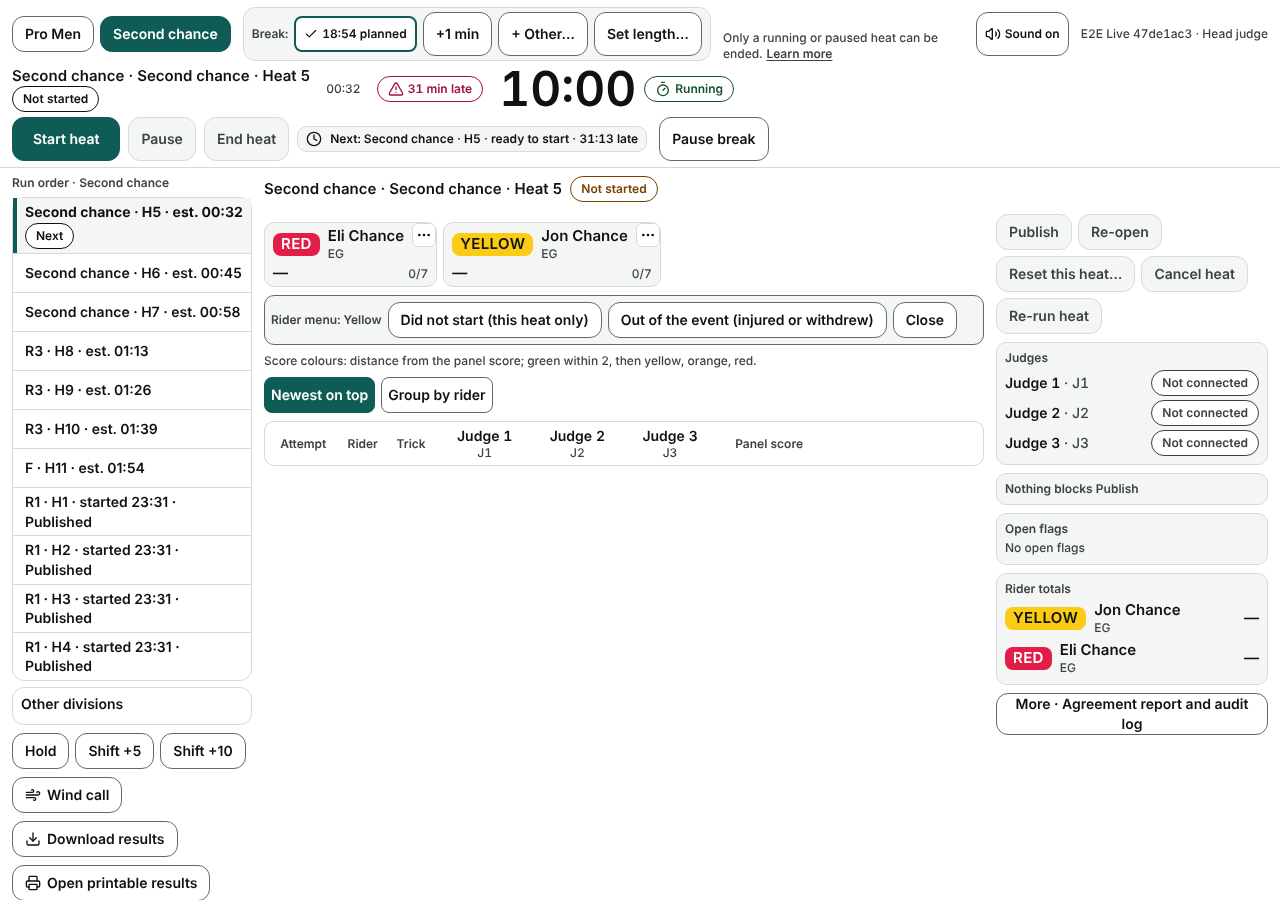
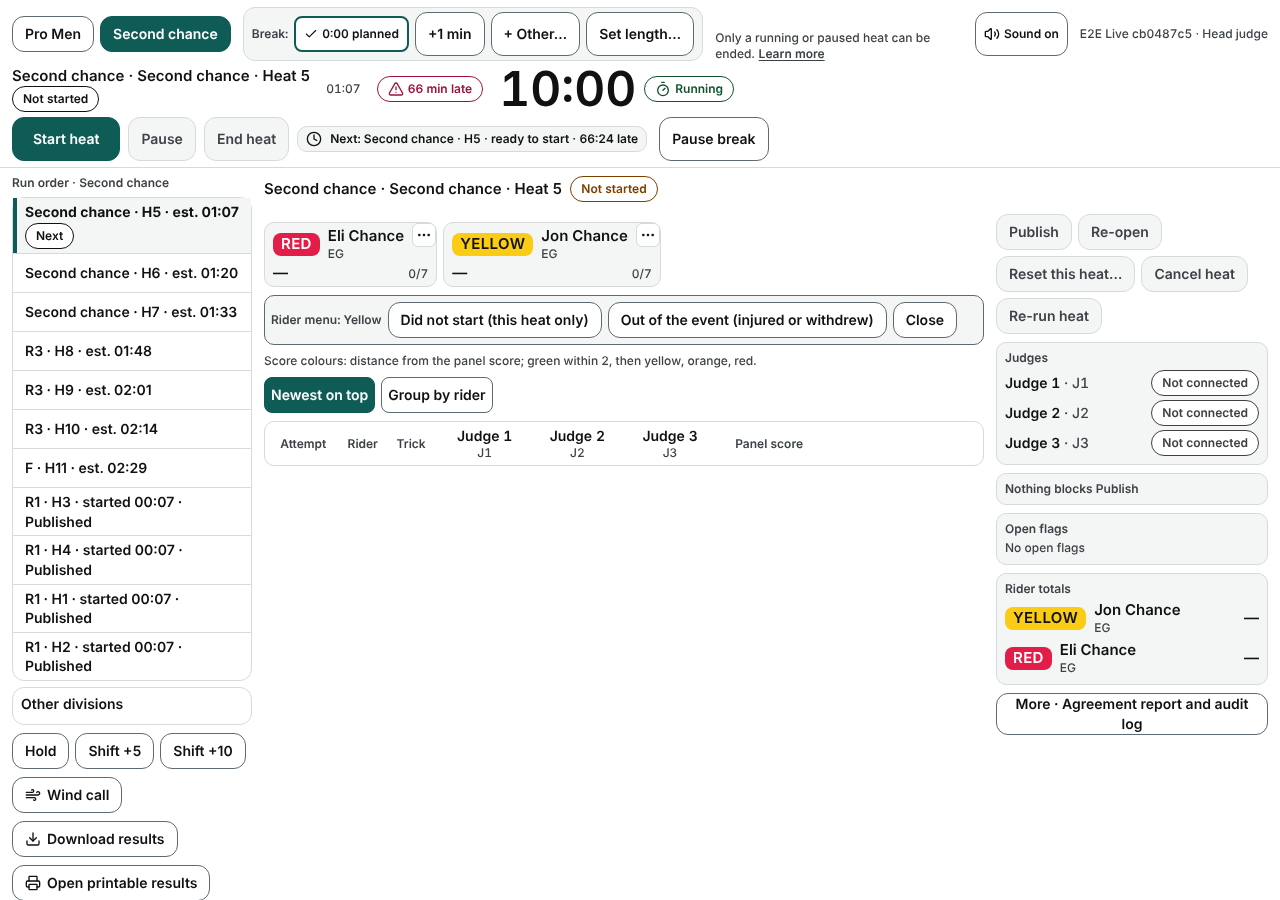
docs(manual): pictures retaken on the merged production build
Claude-Session: https://claude.ai/code/session_011NgTs6f2UQiwPeJDKQvaMu

diff --git a/e2e/manual-shots-walkover.spec.ts b/e2e/manual-shots-walkover.spec.ts
@@ -16,6 +16,8 @@ test("the rider menu on a card, and the Walkover button", async ({ browser }) =>
   const w = await createLiveWorld();
   try {
     const ladder = await addSecondChance(w, "round2");
+    // a picture of today's run order (the browser tests use tomorrow's, whose break timer would read thousands of minutes)
+    await w.db.from("schedule_plans").update({ day: w.today, anchors: { s1: "00:01" } as never }).eq("id", ladder.planId);
     const oneVsOne = ladder.draw.rounds.find((r) => r.id === "R2")!.heats.find((h) => h.slots.length === 2)!;
     const heatId = ladder.heats[oneVsOne.uid ?? oneVsOne.id];
     const [, missing] = oneVsOne.slots.map((s) => s.entrantId!);
